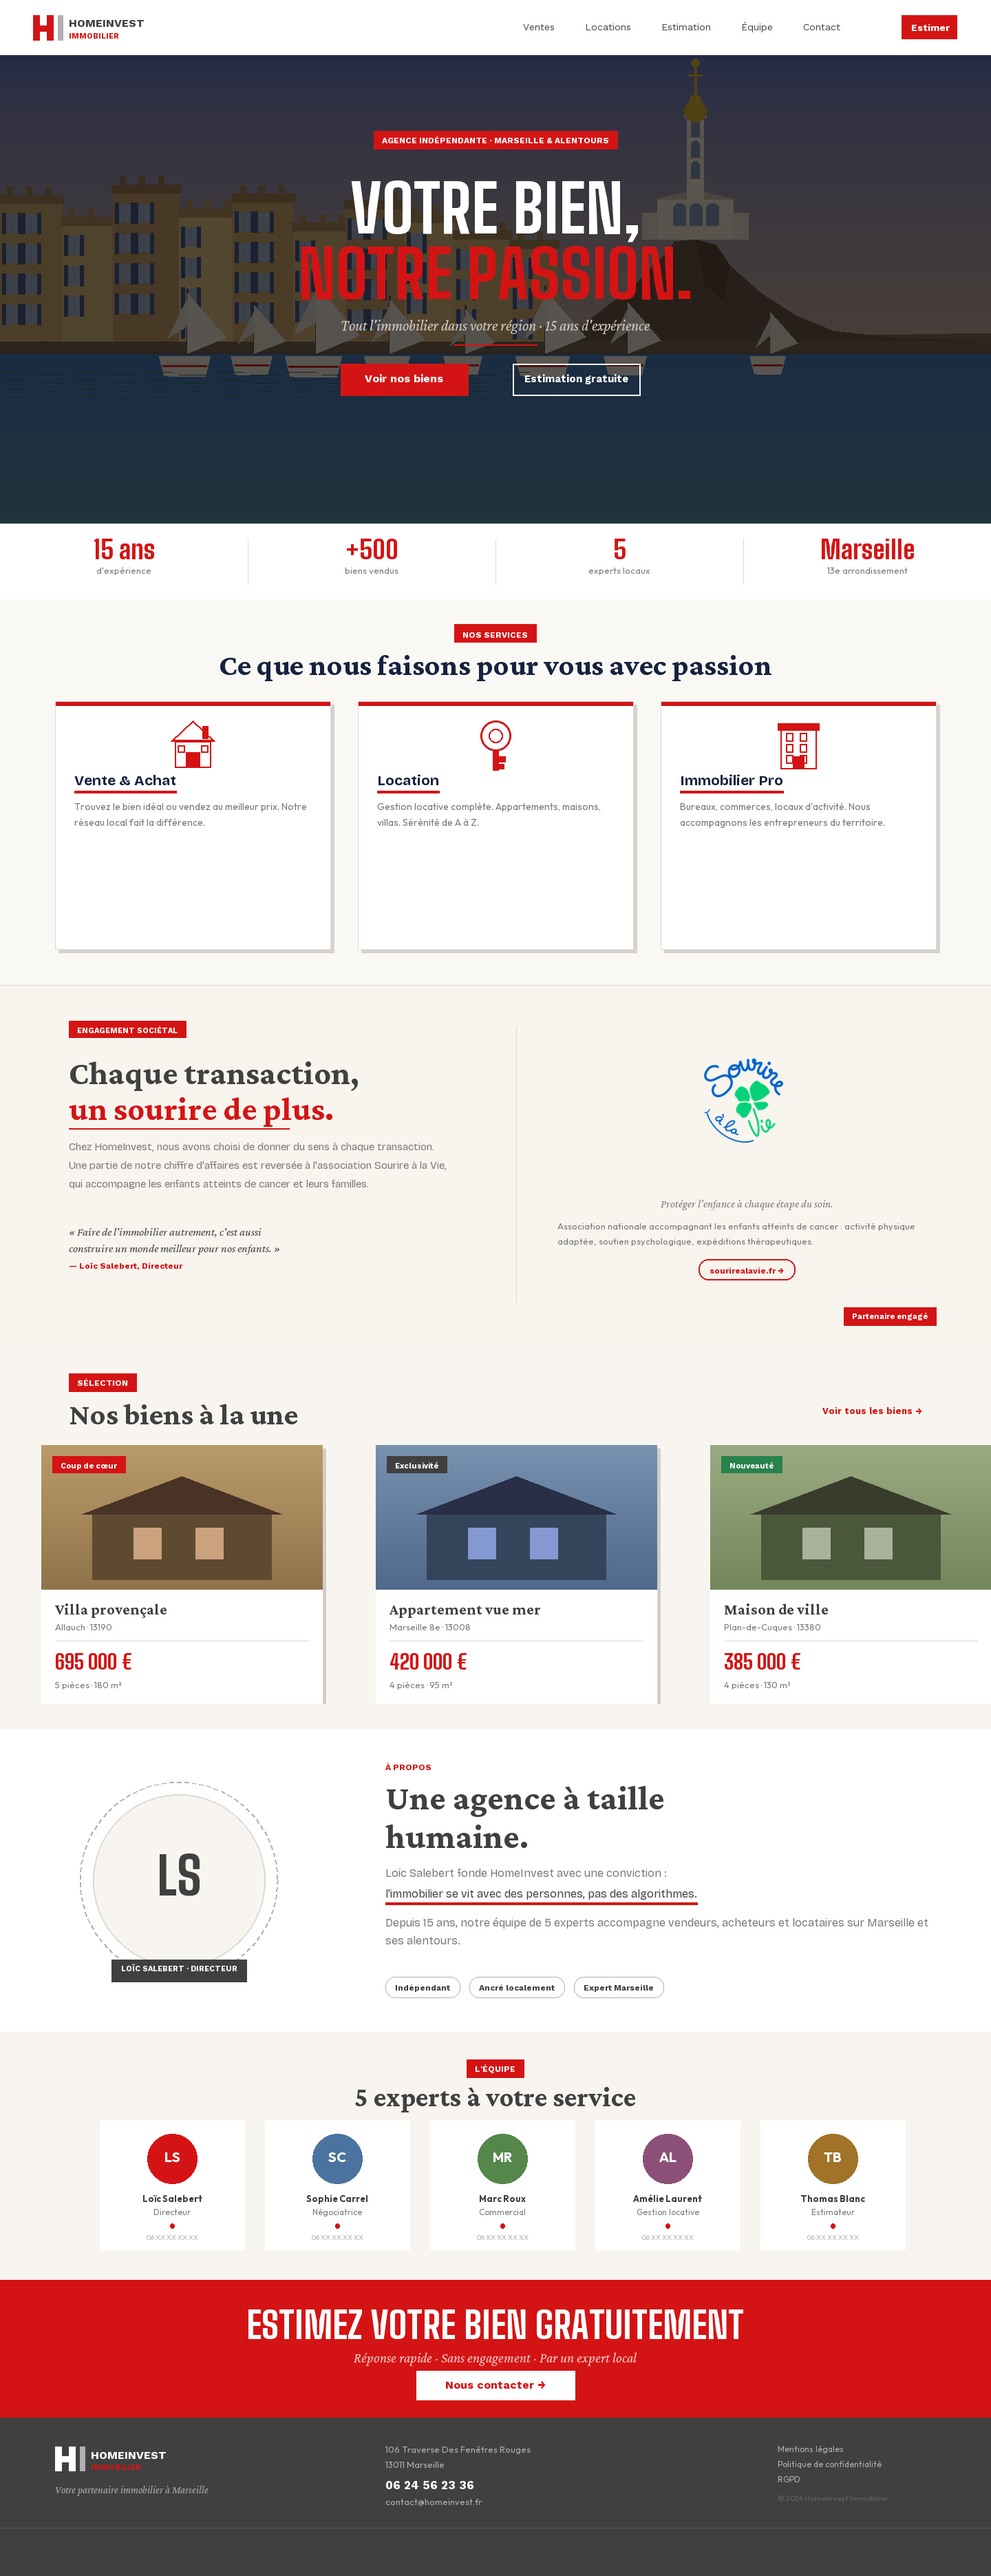
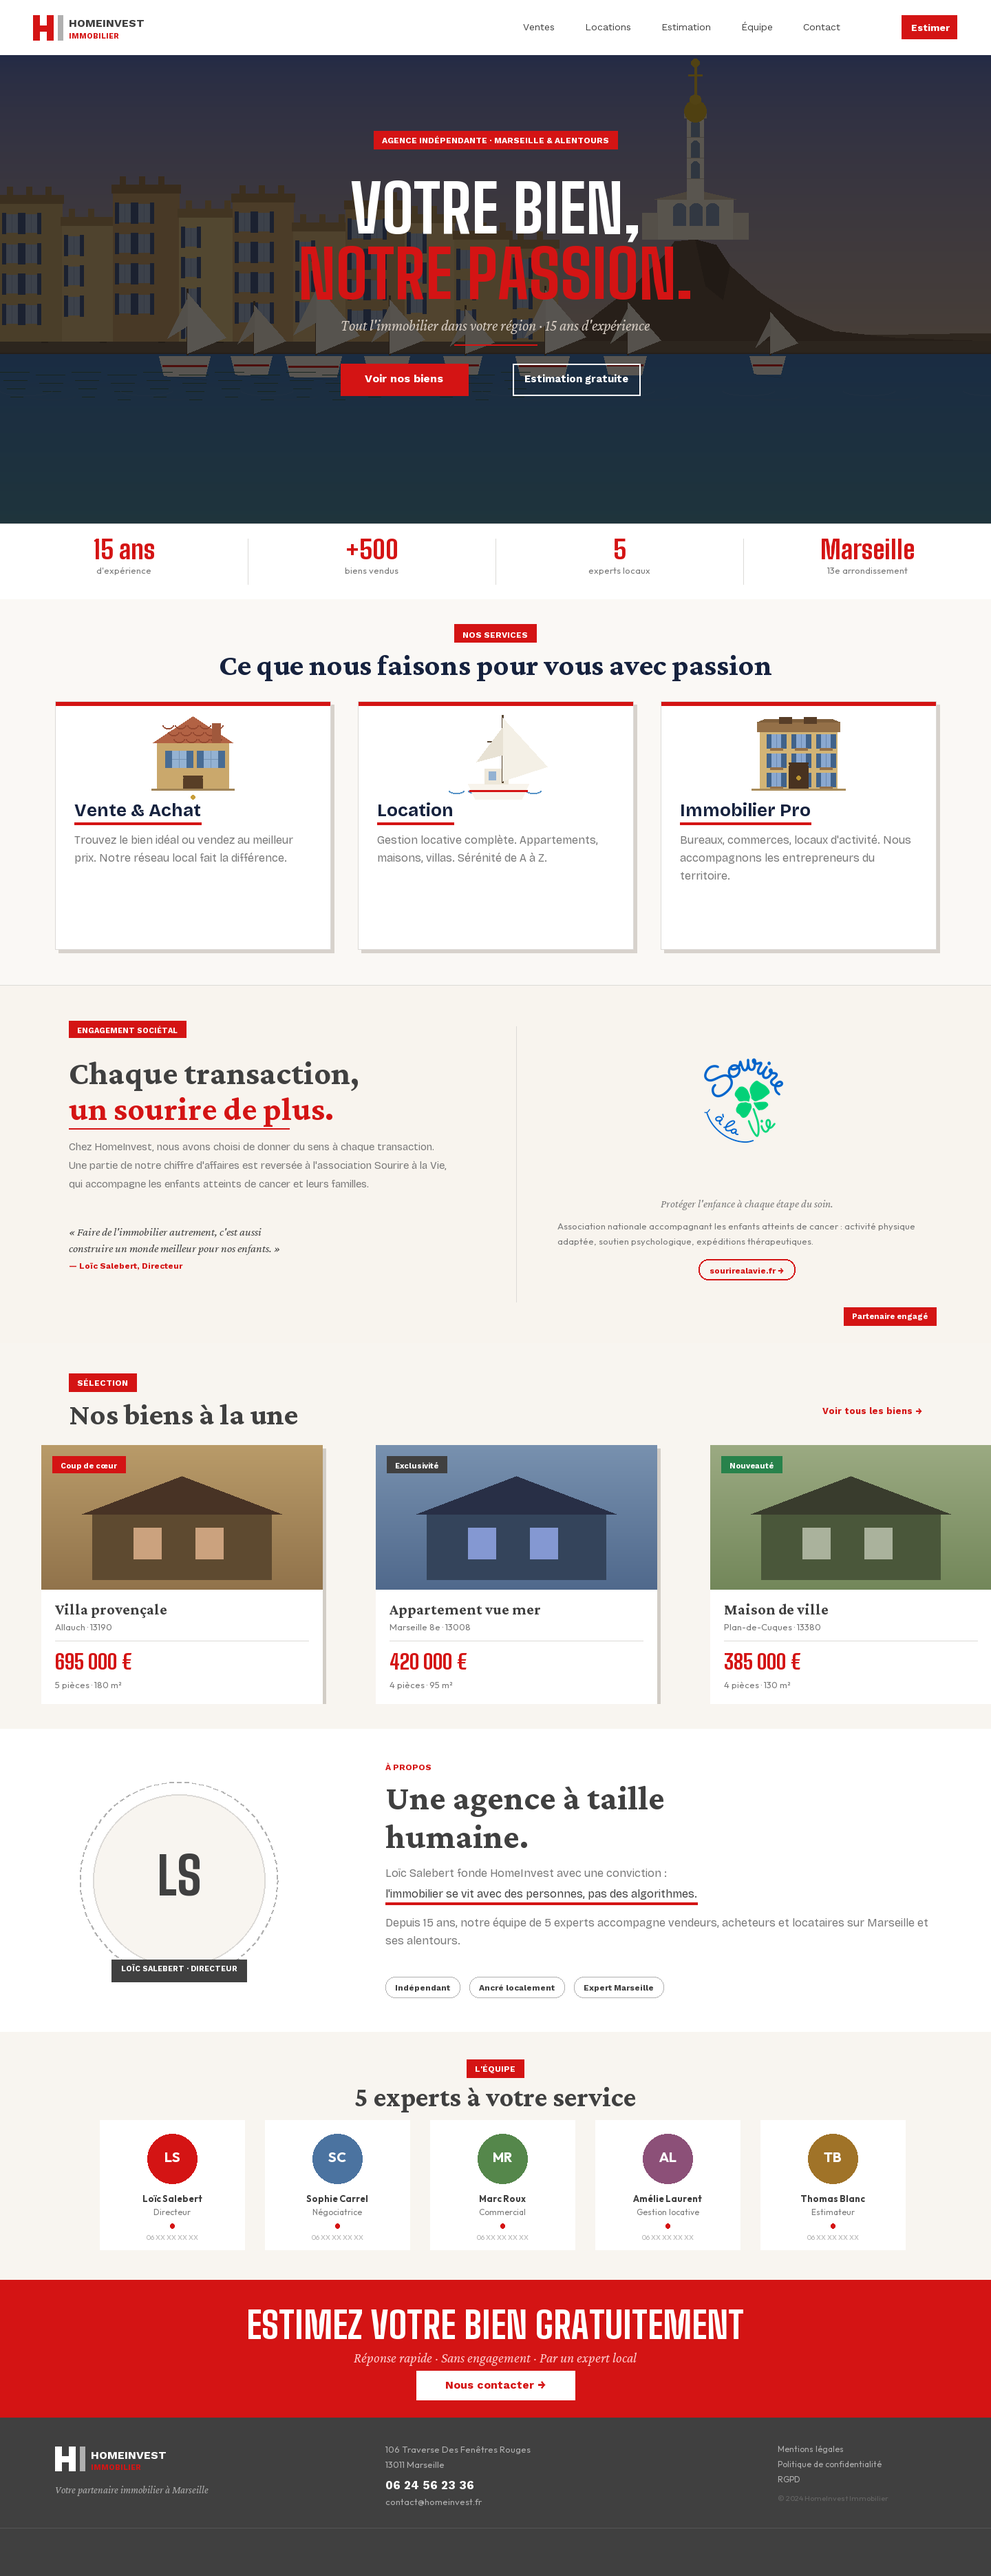
Services: illustrations Marseillaises + typo agrandie
- Icônes remplacées par des illustrations géométriques thématiques :
  maison provençale (ocre/tuiles/volets bleus), voilier du Vieux-Port,
  façade Haussmannienne (3 étages, lucarnes, fenêtres à volets)
- Titres BRICB(26) au lieu de BRICB(21), descriptions BRICR(16)

Changed region(s): [[0.6875, 0.2791, 0.875, 0.3412], [0.0625, 0.2791, 0.2812, 0.3412], [0.375, 0.2791, 0.5625, 0.3412]]

diff --git a/generate_mockup.py b/generate_mockup.py
@@ -407,57 +407,162 @@ for i, (num, title, desc, tags) in enumerate(svc_data):
     draw.rectangle([cx_c, cy_top, cx_c+CARD_W, cy_bot], outline=GRAY_PALE, width=1)
 
 
-    # ── Icône centrée (outline rouge, style épuré) ──
-    icx  = cx_c + CARD_W // 2   # centre horizontal de la carte
-    iy_i = cy_top + 28           # top de l'icône
+    # ── Illustration Marseillaise centrée ──
+    ICO_H = 110
+    iy_i  = cy_top + 18
+    icx   = cx_c + CARD_W // 2
 
-    if i == 0:  # Maison — outline épuré
-        # Toit
-        draw.polygon([(icx-32, iy_i+30), (icx, iy_i), (icx+32, iy_i+30)],
-                     outline=RED, width=3)
-        # Corps
-        draw.rectangle([icx-26, iy_i+30, icx+26, iy_i+68], outline=RED, width=2)
-        # Porte centrée
-        draw.rectangle([icx-10, iy_i+46, icx+10, iy_i+68], fill=RED)
-        # Fenêtres
-        draw.rectangle([icx-22, iy_i+36, icx-12, iy_i+46], outline=RED, width=2)
-        draw.rectangle([icx+12, iy_i+36, icx+22, iy_i+46], outline=RED, width=2)
+    if i == 0:  # Maison provençale — ocre, volets bleus, tuiles terracotta
+        facade_c  = (202, 168, 108)
+        roof_c    = (178, 98,  68)
+        shutter_c = (72,  108, 148)
+        bx1, bx2  = icx - 52, icx + 52
+        by_wall_top = iy_i + 42
+        by_wall_bot = iy_i + ICO_H
+
+        # Corps façade
+        draw.rectangle([bx1, by_wall_top, bx2, by_wall_bot], fill=facade_c)
+
+        # Toit pentu
+        draw.polygon([
+            (bx1 - 6, by_wall_top), (bx2 + 6, by_wall_top), (icx, iy_i + 4),
+        ], fill=roof_c)
+        # Rangées de tuiles
+        for ti in range(3):
+            ty_tile = iy_i + 12 + ti * 10
+            for tx_tile in range(icx - 44 + ti * 8, icx + 44 - ti * 8, 18):
+                draw.arc([tx_tile, ty_tile, tx_tile + 16, ty_tile + 10], 0, 180,
+                         fill=(148, 72, 48), width=2)
+
         # Cheminée
-        draw.rectangle([icx+14, iy_i+8, icx+22, iy_i+26], fill=RED)
+        draw.rectangle([bx2 - 24, iy_i + 14, bx2 - 12, iy_i + 42], fill=(160, 88, 60))
 
-    elif i == 1:  # Clé — élégante
-        # Anneau
-        draw.ellipse([icx-22, iy_i, icx+22, iy_i+44], outline=RED, width=3)
-        draw.ellipse([icx-10, iy_i+12, icx+10, iy_i+32], outline=RED, width=2)
-        # Tige
-        draw.rectangle([icx-4, iy_i+44, icx+4, iy_i+72], fill=RED)
-        # Dents
-        draw.rectangle([icx+4,  iy_i+52, icx+14, iy_i+60], fill=RED)
-        draw.rectangle([icx+4,  iy_i+63, icx+12, iy_i+70], fill=RED)
+        # Fenêtres avec volets
+        for wx_off in [-30, 16]:
+            wx1, wx2 = icx + wx_off, icx + wx_off + 20
+            wy1, wy2 = by_wall_top + 12, by_wall_top + 36
+            draw.rectangle([wx1 - 10, wy1, wx1 - 1, wy2], fill=shutter_c)
+            draw.rectangle([wx1, wy1, wx2, wy2], fill=(148, 178, 210))
+            draw.line([(wx1, (wy1+wy2)//2), (wx2, (wy1+wy2)//2)], fill=(118, 148, 180), width=1)
+            draw.line([((wx1+wx2)//2, wy1), ((wx1+wx2)//2, wy2)], fill=(118, 148, 180), width=1)
+            draw.rectangle([wx2 + 1, wy1, wx2 + 10, wy2], fill=shutter_c)
 
-    else:  # Immeuble — épuré
-        # Corps principal
-        draw.rectangle([icx-26, iy_i+12, icx+26, iy_i+70], outline=RED, width=2)
-        # Fronton
-        draw.rectangle([icx-30, iy_i+4, icx+30, iy_i+14], fill=RED)
-        # Grille de fenêtres 3×2
-        for _r in range(3):
-            for _c in range(2):
-                draw.rectangle([icx-18+_c*20, iy_i+18+_r*16,
-                                 icx-8+_c*20,  iy_i+30+_r*16],
-                                outline=RED, width=2)
-        # Porte
-        draw.rectangle([icx-8, iy_i+52, icx+8, iy_i+70], fill=RED)
+        # Porte cintrée
+        px1, px2 = icx - 14, icx + 14
+        py1 = by_wall_top + 52
+        draw.rectangle([px1, py1, px2, by_wall_bot], fill=(88, 62, 38))
+        draw.pieslice([px1, py1 - 12, px2, py1 + 4], 0, 180, fill=(88, 62, 38))
+        draw.ellipse([icx - 3, py1 + 24, icx + 3, py1 + 30], fill=(200, 158, 58))
 
-    # ── Titre (bien en dessous de l'icône) ──
-    title_y = cy_top + 102
-    draw.text((cx_c + 28, title_y), title, font=BRICB(21), fill=NAVY)
-    tl_w = tlen(title, BRICB(21))
-    draw.rectangle([cx_c+28, title_y+28, cx_c+28+tl_w, title_y+31], fill=RED)
+        # Sol
+        draw.line([(bx1 - 8, by_wall_bot), (bx2 + 8, by_wall_bot)],
+                  fill=(160, 132, 88), width=3)
 
-    # ── Description (wrap) ──
-    wrap_text(desc, OUTR(14), CARD_W-56,
-              draw_at=True, x=cx_c+28, y=title_y+42, color=GRAY_MED, line_h=23)
+    elif i == 1:  # Voilier du Vieux-Port
+        boat_cx = icx + 4
+        deck_y  = iy_i + ICO_H - 8
+        hull_w  = 88
+
+        # Vagues
+        for wx_wave in range(icx - 68, icx + 62, 28):
+            draw.arc([wx_wave, deck_y + 6, wx_wave + 22, deck_y + 14], 0, 180,
+                     fill=(88, 148, 200), width=2)
+
+        # Coque
+        draw.polygon([
+            (boat_cx - hull_w//2, deck_y),
+            (boat_cx + hull_w//2, deck_y),
+            (boat_cx + hull_w//2 - 10, deck_y + 22),
+            (boat_cx - hull_w//2 + 10, deck_y + 22),
+        ], fill=(248, 244, 236))
+        draw.line([(boat_cx - hull_w//2 + 2, deck_y + 10),
+                   (boat_cx + hull_w//2 - 2, deck_y + 10)], fill=RED, width=3)
+
+        # Cabine
+        draw.rectangle([boat_cx - 20, deck_y - 22, boat_cx + 14, deck_y],
+                       fill=(238, 232, 218))
+        draw.rectangle([boat_cx - 14, deck_y - 18, boat_cx - 4, deck_y - 6],
+                       fill=(148, 178, 210))
+
+        # Mât
+        mast_x   = boat_cx + 6
+        mast_top = iy_i + 2
+        draw.line([(mast_x, deck_y - 2), (mast_x, mast_top)], fill=(88, 70, 50), width=3)
+        # Barre de flèche
+        draw.line([(mast_x - 22, mast_top + 38), (mast_x + 18, mast_top + 38)],
+                  fill=(88, 70, 50), width=2)
+
+        # Grande voile
+        sail_h = deck_y - mast_top
+        draw.polygon([
+            (mast_x, mast_top + 4),
+            (mast_x, deck_y - 4),
+            (mast_x + int(sail_h * 0.65), deck_y - int(sail_h * 0.25)),
+        ], fill=(244, 240, 230))
+
+        # Foc
+        draw.polygon([
+            (mast_x, mast_top + 18),
+            (mast_x - int(sail_h * 0.38), deck_y - int(sail_h * 0.42) + 10),
+            (mast_x, deck_y - int(sail_h * 0.42)),
+        ], fill=(232, 226, 212))
+
+    else:  # Façade Haussmannienne marseillaise
+        fb_x1, fb_x2 = icx - 56, icx + 56
+        fb_top = iy_i + 8
+        fb_bot = iy_i + ICO_H
+        fac_c  = (210, 180, 118)
+        cor_c  = (148, 112, 72)
+        win_c  = (138, 168, 208)
+        sht_c  = (64,  98,  138)
+
+        # Corps
+        draw.rectangle([fb_x1, fb_top + 16, fb_x2, fb_bot], fill=fac_c)
+
+        # Corniche + mansarde
+        draw.rectangle([fb_x1 - 4, fb_top + 4, fb_x2 + 4, fb_top + 18], fill=cor_c)
+        draw.polygon([
+            (fb_x1 - 4, fb_top + 4), (fb_x2 + 4, fb_top + 4),
+            (fb_x2 - 6, fb_top),     (fb_x1 + 6, fb_top),
+        ], fill=(128, 96, 60))
+
+        # Lucarnes
+        for luc_x in [icx - 28, icx + 8]:
+            draw.pieslice([luc_x, fb_top - 8, luc_x + 18, fb_top + 2], 0, 180, fill=(88, 62, 40))
+            draw.rectangle([luc_x, fb_top - 2, luc_x + 18, fb_top + 6], fill=(88, 62, 40))
+
+        # Grille de fenêtres 3 colonnes × 3 rangées
+        for fl in range(3):
+            wy_fl = fb_top + 22 + fl * 28
+            for col_idx in range(3):
+                wx_col = fb_x1 + 10 + col_idx * 36
+                draw.rectangle([wx_col,      wy_fl, wx_col + 7,  wy_fl + 20], fill=sht_c)
+                draw.rectangle([wx_col + 7,  wy_fl, wx_col + 21, wy_fl + 20], fill=win_c)
+                draw.line([(wx_col + 14, wy_fl), (wx_col + 14, wy_fl + 20)],
+                          fill=(108, 138, 178), width=1)
+                draw.rectangle([wx_col + 21, wy_fl, wx_col + 28, wy_fl + 20], fill=sht_c)
+                draw.rectangle([wx_col + 5, wy_fl + 20, wx_col + 23, wy_fl + 23], fill=cor_c)
+
+        # Porte voûtée centrale
+        px1, px2 = icx - 14, icx + 14
+        py1 = fb_bot - 34
+        draw.rectangle([px1, py1, px2, fb_bot], fill=(72, 50, 32))
+        draw.pieslice([px1, py1 - 14, px2, py1 + 4], 0, 180, fill=(72, 50, 32))
+        draw.ellipse([icx - 3, py1 + 14, icx + 3, py1 + 20], fill=(188, 148, 48))
+
+        # Trottoir
+        draw.line([(fb_x1 - 12, fb_bot), (fb_x2 + 12, fb_bot)],
+                  fill=(170, 140, 90), width=3)
+
+    # ── Titre ──
+    title_y = cy_top + 142
+    draw.text((cx_c + 28, title_y), title, font=BRICB(26), fill=NAVY)
+    tl_w = tlen(title, BRICB(26))
+    draw.rectangle([cx_c+28, title_y+34, cx_c+28+tl_w, title_y+37], fill=RED)
+
+    # ── Description ──
+    wrap_text(desc, BRICR(16), CARD_W-56,
+              draw_at=True, x=cx_c+28, y=title_y+50, color=GRAY_MED, line_h=26)
 
 
 y += SERV_H
